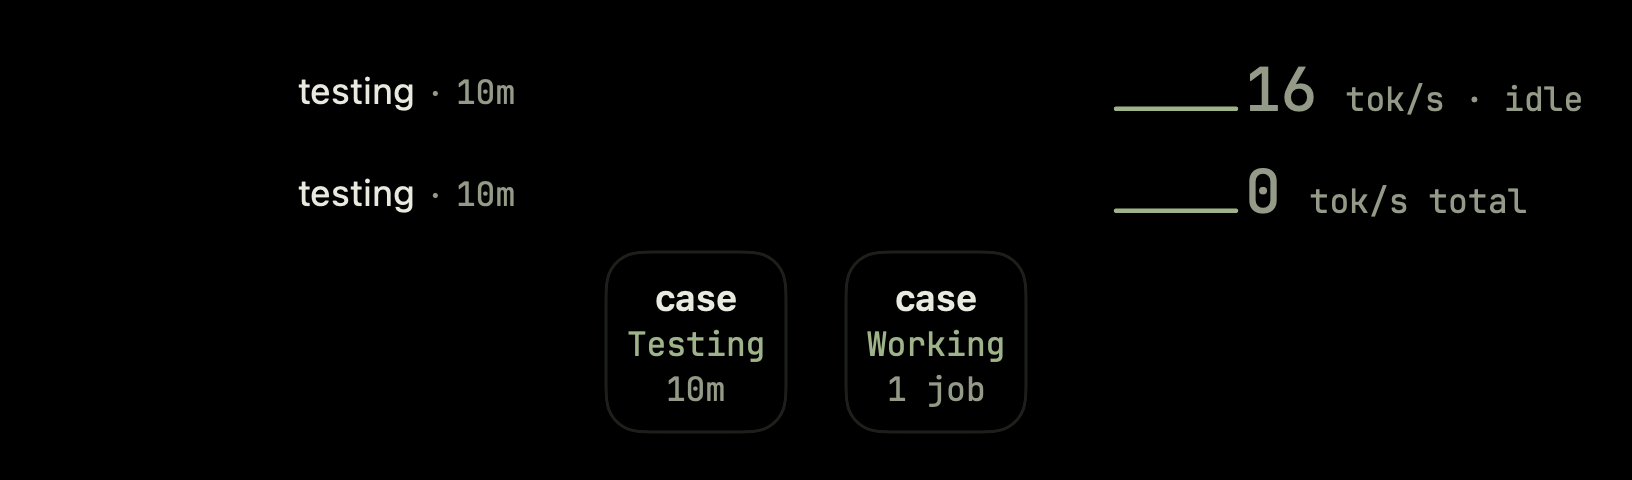
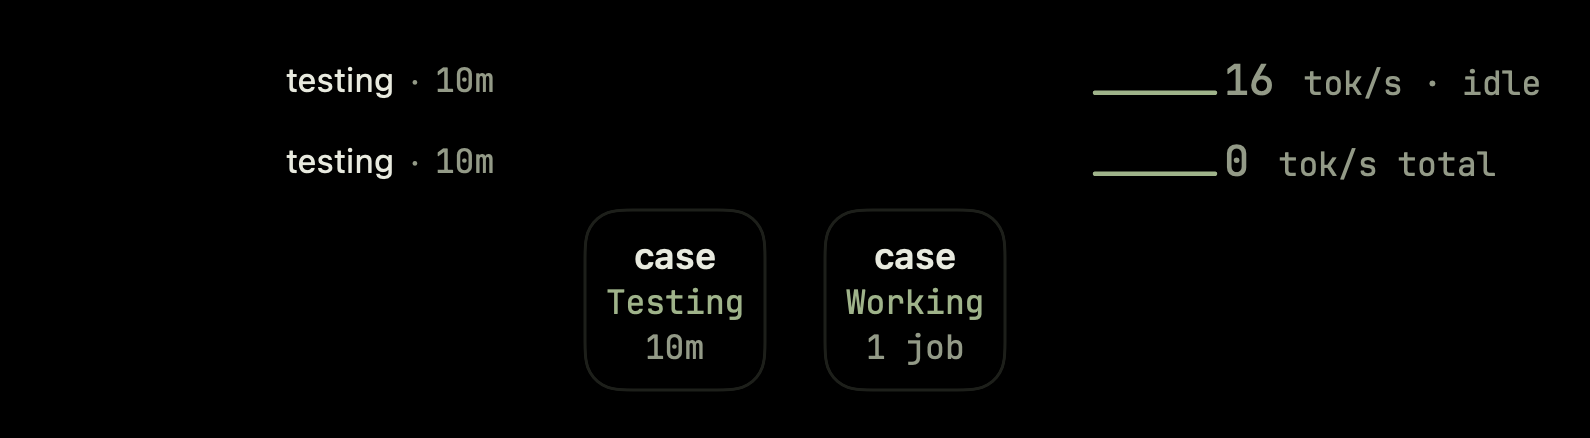
fleet: the closed bar is 70 % of the closed notch's height (#28)
The collapsed fleet bar drew as tall as the whole closed notch (30 pt on the job machine's display, 38 pt on a notched MacBook), which left it hanging below the menu bar. FleetPanelMetrics.closedBarHeight now cuts it to 70 % (30 -> 21 pt): the speed number drops 20 -> 14 pt, the sparkline 14 -> 10 pt tall, and every label sits on the fleet's 11 pt floor. open notch, other closed faces, width and data unchanged.

diff --git a/boringNotchTests/FleetFormatTests.swift b/boringNotchTests/FleetFormatTests.swift
@@ -642,10 +642,16 @@ final class FleetFormatTests: XCTestCase {
     }
 
     /// The row draws its sparkline at exactly this frame, so the number beside it never moves the
-    /// notch: the strip the preview shows is 40 pt of trend and 14 pt tall.
+    /// notch: the strip the preview shows is 40 pt of trend, 10 pt tall - the 0.7 x 14 share rounded
+    /// to a whole point, so the sparkline stays inside the shorter bar. The width is the bar's width
+    /// budget and does not change, because the cut is height-only.
     func testClosedSparklineFrameIsItsFixedSize() {
         XCTAssertEqual(FleetPanelMetrics.closedSparklineWidth, 40)
-        XCTAssertEqual(FleetPanelMetrics.closedSparklineHeight, 14)
+        XCTAssertEqual(FleetPanelMetrics.closedSparklineHeight, 10,
+                       "0.7 x 14, rounded to a whole point")
+        XCTAssertLessThan(FleetPanelMetrics.closedSparklineHeight,
+                          FleetPanelMetrics.closedBarHeight(30),
+                          "and it fits inside the closed bar")
     }
 
     // MARK: - Closed sparkline series and speed grace
@@ -973,6 +979,10 @@ final class FleetFormatTests: XCTestCase {
         XCTAssertNoThrow(try Data(png).write(to: URL(fileURLWithPath: previewPath)), "the preview wrote")
     }
 
+    /// The closed notch the job machine's display produces: a 30 pt menu bar. The fleet bar is 70 % of it.
+    private let closedNotch: CGFloat = 30
+    private var closedBarHeight: CGFloat { FleetPanelMetrics.closedBarHeight(closedNotch) }
+
     /// The closed row prints its speed number in the skin's accent - the black skin's only green -
     /// while a fleet that never measured anything hands the row no reading, so the row paints no
     /// accent at all and the busy row's green pixels can only come from that number.
@@ -1003,7 +1013,7 @@ final class FleetFormatTests: XCTestCase {
 
         func bitmap(for reading: FleetFormat.FleetClosedRightReading?) throws -> NSBitmapImageRep {
             let renderer = ImageRenderer(content: FleetClosedRowView(
-                working: 2, alert: nil, reading: reading, theme: theme, gapWidth: 200, height: 28
+                working: 2, alert: nil, reading: reading, theme: theme, gapWidth: 200, height: closedBarHeight
             ).background(Color.black))
             renderer.scale = 2
             let image = try XCTUnwrap(renderer.nsImage, "the closed row rendered")
@@ -1049,10 +1059,10 @@ final class FleetFormatTests: XCTestCase {
             let toolRunTrend: [Double?] = Array(repeating: nil, count: 60)
             let toolRunStrip = ImageRenderer(content: VStack(spacing: 6) {
                 FleetClosedRowView(working: 0, alert: nil, reading: keptReading, theme: theme,
-                                   gapWidth: 200, height: 28,
+                                   gapWidth: 200, height: closedBarHeight,
                                    toolRuns: [testRun], trend: toolRunTrend)
                 FleetClosedRowView(working: 0, alert: nil, reading: zeroReading, theme: theme,
-                                   gapWidth: 200, height: 28,
+                                   gapWidth: 200, height: closedBarHeight,
                                    toolRuns: [testRun], trend: toolRunTrend)
                 HStack(spacing: 20) {
                     FleetCaseBoxView(lane: origin(.idle, toolRuns: [testRun]), theme: theme)
@@ -1071,14 +1081,16 @@ final class FleetFormatTests: XCTestCase {
         }
 
         // A preview strip, only on request: `FLEET_CLOSED_ROW_PREVIEW=/tmp/row.png xcodebuild test`.
+        // Its three rows are the closed bar at its new height (`closedBarHeight`, 70 % of the closed
+        // notch), each with one reading: the live speed, the kept value and the idle row.
         if let previewPath = ProcessInfo.processInfo.environment["FLEET_CLOSED_ROW_PREVIEW"] {
             let strip = ImageRenderer(content: VStack(spacing: 6) {
                 FleetClosedRowView(working: 2, alert: nil, reading: speedReading, theme: theme,
-                                   gapWidth: 200, height: 28)
+                                   gapWidth: 200, height: closedBarHeight)
                 FleetClosedRowView(working: 2, alert: nil, reading: lastValueReading, theme: theme,
-                                   gapWidth: 200, height: 28)
+                                   gapWidth: 200, height: closedBarHeight)
                 FleetClosedRowView(working: 2, alert: nil, reading: idleReading, theme: theme,
-                                   gapWidth: 200, height: 28)
+                                   gapWidth: 200, height: closedBarHeight)
             }.padding(16).background(Color.black))
             strip.scale = 3
             let stripImage = try XCTUnwrap(strip.nsImage, "the preview strip rendered")
@@ -1087,6 +1099,67 @@ final class FleetFormatTests: XCTestCase {
             let png = try XCTUnwrap(stripBitmap.representation(using: .png, properties: [:]), "preview PNG")
             XCTAssertNoThrow(try Data(png).write(to: URL(fileURLWithPath: previewPath)), "the preview wrote")
         }
+    }
+
+    /// The bar is 70 % of the closed notch (owner request: it hung well below the menu bar), and the
+    /// rendered row is exactly that tall - the text must fit inside it.
+    @MainActor
+    func testTheClosedBarIsSeventyPercentOfTheClosedNotch() throws {
+        XCTAssertEqual(FleetPanelMetrics.closedBarHeightScale, 0.7, accuracy: 0.0001)
+        XCTAssertEqual(FleetPanelMetrics.closedBarHeight(30), 21, accuracy: 0.0001)
+        XCTAssertEqual(FleetPanelMetrics.closedBarHeight(38), 26.6, accuracy: 0.0001)
+        // the bitmap is the rendered row at scale 2: 42 px for 21 pt
+        let speedReading = try XCTUnwrap(
+            FleetFormat.closedRightReading(speed: FleetSpeed(current: 47.2, lastAt: nil), jobs: 2, total: true),
+            "a reported speed has a reading")
+        XCTAssertEqual(try rowBitmap(working: 2, alert: nil, reading: speedReading, blackHole: false).pixelsHigh,
+                       42)
+    }
+
+    /// The shorter bar must clip no text: the busy row at `closedBarHeight` puts no ink in its topmost
+    /// or bottommost two pixel rows, so the glyphs and the sparkline stay inside the bar.
+    @MainActor
+    func testTheShorterBarClipsNoTextOrSparkline() throws {
+        let speedReading = try XCTUnwrap(
+            FleetFormat.closedRightReading(speed: FleetSpeed(current: 47.2, lastAt: nil), jobs: 2, total: true),
+            "a reported speed has a reading")
+        let flatTrend: [Double?] = Array(repeating: 0, count: 60)
+        let bitmap = try rowBitmap(working: 2, alert: "3 critical", reading: speedReading, blackHole: false,
+                                   trend: flatTrend)
+        XCTAssertEqual(bitmap.pixelsHigh, 42, "21 pt at scale 2")
+
+        // Ink is any colour channel above 0.05; the black background is 0 in every channel.
+        func hasInk(inRows rows: Range<Int>) -> Bool {
+            for y in rows {
+                for x in 0..<bitmap.pixelsWide {
+                    guard let pixel = bitmap.colorAt(x: x, y: y)?.usingColorSpace(.sRGB) else { continue }
+                    if pixel.redComponent > 0.05 || pixel.greenComponent > 0.05 || pixel.blueComponent > 0.05 {
+                        return true
+                    }
+                }
+            }
+            return false
+        }
+        XCTAssertFalse(hasInk(inRows: 0..<2), "no ink in the topmost two pixel rows")
+        XCTAssertFalse(hasInk(inRows: (bitmap.pixelsHigh - 2)..<bitmap.pixelsHigh),
+                       "no ink in the bottommost two pixel rows")
+    }
+
+    /// The closed row at `closedBarHeight` on black, at scale 2: the frame the closed bar draws in.
+    @MainActor
+    private func rowBitmap(working: Int, alert: String?, reading: FleetFormat.FleetClosedRightReading?,
+                           blackHole: Bool, trend: [Double?]? = nil) throws -> NSBitmapImageRep {
+        // The rows ask FleetType for the mono face, whose registration is memoised once per process.
+        FleetType.registerBundledFonts(in: Bundle(for: FleetFormatTests.self))
+        let renderer = ImageRenderer(content: FleetClosedRowView(
+            working: working, alert: alert, reading: reading, theme: FleetTheme(skin: .black),
+            gapWidth: 200, height: closedBarHeight, trend: trend,
+            blackHole: blackHole ? FleetBlackHoleState(working: working, isVisible: true) : .hidden
+        ).background(Color.black))
+        renderer.scale = 2
+        let image = try XCTUnwrap(renderer.nsImage, "the closed row rendered")
+        return try XCTUnwrap(NSBitmapImageRep(data: try XCTUnwrap(image.tiffRepresentation)),
+                             "closed row bitmap")
     }
 
     /// The CURRENT WORK column is the only place a waiting run's full command appears, so a leaf

diff --git a/boringNotch/components/Fleet/FleetFormat.swift b/boringNotch/components/Fleet/FleetFormat.swift
@@ -636,10 +636,19 @@ enum FleetPanelMetrics {
     /// the tab strip that carries the health text free the room the map's four rows need, so the
     /// notch does not grow.
     static let fleetSectionHeight: CGFloat = 300
+    /// The closed fleet bar's height as a share of the closed notch's own height. The closed notch is
+    /// as tall as the display's menu bar (30 pt on the job machine's screen, the hardware notch's
+    /// 38 pt on a MacBook), which left the fleet row hanging well below the menu bar. The bar draws in
+    /// 70 % of it; the open notch and the other closed faces keep their height.
+    static let closedBarHeightScale: CGFloat = 0.7
+    /// The closed fleet bar's height for a closed notch of `closedNotchHeight` pt.
+    static func closedBarHeight(_ closedNotchHeight: CGFloat) -> CGFloat {
+        closedNotchHeight * closedBarHeightScale
+    }
     /// The closed-notch row: one line per side ("2 working" or "2 working · 1 down" / the speed).
     /// Both sides are as wide as the wider text, so the camera gap stays centred and the notch is
     /// only as wide as it needs to be. This cap holds the longest left line in 11 pt monospaced
-    /// width (a safe upper bound for the 12 pt proportional "working").
+    /// width (a safe upper bound for the 11 pt proportional "working").
     static let closedRowTextWidth: CGFloat = 160
     static var closedRowSideWidth: CGFloat { closedRowTextWidth }
     /// One side's width: the wider of the two texts, never past the cap.
@@ -647,16 +656,20 @@ enum FleetPanelMetrics {
         min(closedRowSideWidth, max(left, right))
     }
     /// The closed row's speed reading: the number at this size (medium weight), its unit at
-    /// `minTextSize` after this spacing. The closed row draws its speed reading with these and the
-    /// fit rule (`closedSpeedFits`) measures with the same numbers.
-    static let closedSpeedNumberSize: CGFloat = 20
+    /// `minTextSize` after this spacing. The bar is 70 % of the closed notch, so the number drops from
+    /// 20 pt to 14 pt (0.7 x 20, whose line box still fits the shorter bar) and the row's labels sit
+    /// on `minTextSize`. The closed row draws its speed reading with these and the fit rule
+    /// (`closedSpeedFits`) measures with the same numbers.
+    static let closedSpeedNumberSize: CGFloat = 14
     static let closedSpeedSpacing: CGFloat = 3
     /// The closed row's speed sparkline: the last ten minutes of trend readings drawn left of the
     /// speed number, `closedSpeedSpacing` from it. Small on purpose - it only has to show *when* the
     /// line last rose, and `closedSpeedFits` subtracts its width from the row's text budget.
     static let closedSparklineWidth: CGFloat = 40
-    /// Short enough to sit inside the speed number's line box without pushing the row taller.
-    static let closedSparklineHeight: CGFloat = 14
+    /// Short enough to sit inside the speed number's line box without pushing the row taller. The
+    /// height follows the bar's 70 % (0.7 x 14), so the sparkline stays inside the shorter bar. The
+    /// 40 pt width is the bar's width budget and does not change, because the cut is height-only.
+    static let closedSparklineHeight: CGFloat = 10
     /// The current-work column: 604 pt section, less the 18 pt lead and 1 pt rule, the 292 pt map and
     /// the 20 + 1 + 20 pt around the hairline.
     static let workColumnWidth: CGFloat = 252

diff --git a/boringNotch/components/Fleet/FleetClosedRowView.swift b/boringNotch/components/Fleet/FleetClosedRowView.swift
@@ -14,6 +14,8 @@ import SwiftUI
 /// build takes the count's place while nothing works), the hardware gap in the middle and the speed
 /// reading on the right. Split out of `FleetClosedIndicator` (which owns the store, the skin default
 /// and the view model) so the row itself can be rendered without them.
+/// The bar draws at 70 % of the closed notch (`FleetPanelMetrics.closedBarHeight`), so every
+/// label in it sits on the fleet's 11 pt floor (`FleetPanelMetrics.minTextSize`).
 struct FleetClosedRowView: View {
     let working: Int
     let alert: String?
@@ -54,10 +56,10 @@ struct FleetClosedRowView: View {
                     workingLabel
                     if let alert {
                         Text("·")
-                            .font(.system(size: 12))
+                            .font(.system(size: FleetPanelMetrics.minTextSize))
                             .foregroundColor(theme.dim)
                         Text(alert)
-                            .font(FleetType.mono(size: 11))
+                            .font(FleetType.mono(size: FleetPanelMetrics.minTextSize))
                             .foregroundColor(theme.hotText)
                     }
                 }
@@ -110,30 +112,30 @@ struct FleetClosedRowView: View {
         if working == 0, let run = FleetFormat.closedToolRun(toolRuns) {
             if let number = run.number {
                 Text(number)
-                    .font(FleetType.mono(size: 12, weight: .medium))
+                    .font(FleetType.mono(size: FleetPanelMetrics.minTextSize, weight: .medium))
                     .foregroundColor(theme.text)
                     + Text(" \(run.word)")
-                    .font(.system(size: 12))
+                    .font(.system(size: FleetPanelMetrics.minTextSize))
                     .foregroundColor(theme.text)
             } else {
                 Text(run.word)
-                    .font(.system(size: 12))
+                    .font(.system(size: FleetPanelMetrics.minTextSize))
                     .foregroundColor(theme.text)
                 if let age = run.age {
                     Text("·")
-                        .font(.system(size: 12))
+                        .font(.system(size: FleetPanelMetrics.minTextSize))
                         .foregroundColor(theme.dim)
                     Text(age)
-                        .font(FleetType.mono(size: 11))
+                        .font(FleetType.mono(size: FleetPanelMetrics.minTextSize))
                         .foregroundColor(theme.dim)
                 }
             }
         } else {
             Text("\(working)")
-                .font(FleetType.mono(size: 12, weight: .medium))
+                .font(FleetType.mono(size: FleetPanelMetrics.minTextSize, weight: .medium))
                 .foregroundColor(theme.text)
                 + Text(" working")
-                .font(.system(size: 12))
+                .font(.system(size: FleetPanelMetrics.minTextSize))
                 .foregroundColor(theme.text)
         }
     }

diff --git a/boringNotchTests/FleetBlackHoleTests.swift b/boringNotchTests/FleetBlackHoleTests.swift
@@ -191,10 +191,12 @@ final class FleetBlackHoleTests: XCTestCase {
         func frozen<V: View>(_ view: V) -> some View { view.environment(\.fleetBlackHoleFrozenTime, 1.7) }
 
         let shownRow = try bitmap(frozen(FleetClosedRowView(
-            working: 4, alert: nil, reading: nil, theme: theme, gapWidth: 80, height: 28,
+            working: 4, alert: nil, reading: nil, theme: theme, gapWidth: 80,
+            // 30 pt is the job machine's closed notch; the fleet bar is 70% of that
+            height: FleetPanelMetrics.closedBarHeight(30),
             blackHole: shown).background(Color.black)))
         let hiddenRow = try bitmap(frozen(FleetClosedRowView(
-            working: 4, alert: nil, reading: nil, theme: theme, gapWidth: 80, height: 28,
+            working: 4, alert: nil, reading: nil, theme: theme, gapWidth: 80, height: FleetPanelMetrics.closedBarHeight(30),
             blackHole: .hidden).background(Color.black)))
 
         let reserved = shownRow.pixelsWide - hiddenRow.pixelsWide
@@ -220,7 +222,7 @@ final class FleetBlackHoleTests: XCTestCase {
                                                jobs: 4, total: true),
                 "a reported speed has a reading")
             let preview = ImageRenderer(content: FleetClosedRowView(
-                working: 4, alert: nil, reading: reading, theme: theme, gapWidth: 200, height: 28,
+                working: 4, alert: nil, reading: reading, theme: theme, gapWidth: 200, height: FleetPanelMetrics.closedBarHeight(30),
                 blackHole: shown)
                 .environment(\.fleetBlackHoleFrozenTime, 1.7)
                 .padding(16)

diff --git a/boringNotch/components/Fleet/FleetClosedIndicator.swift b/boringNotch/components/Fleet/FleetClosedIndicator.swift
@@ -36,13 +36,15 @@ struct FleetClosedIndicator: View {
                                                        total: model.speedIsTotal),
                 theme: theme,
                 gapWidth: vm.closedNotchSize.width + 10,
-                height: vm.effectiveClosedNotchHeight,
+                // The bar is 70 % of the closed notch: the notch's own height left it hanging well below the menu bar.
+                height: FleetPanelMetrics.closedBarHeight(vm.effectiveClosedNotchHeight),
                 toolRuns: model.toolRuns,
                 trend: model.speed?.trend,
                 blackHole: FleetBlackHoleState.resolve(working: model.workingCount, toolRuns: model.toolRuns)
             )
         } else {
             // Original spacer — keeps layout identical when fleet is unreachable
+            // The bare notch keeps the closed notch's own height; only the fleet bar is shortened.
             Rectangle()
                 .fill(.clear)
                 .frame(
